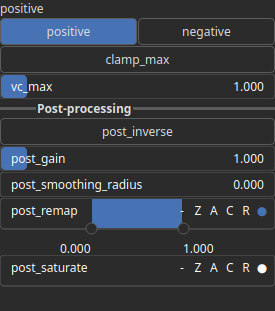
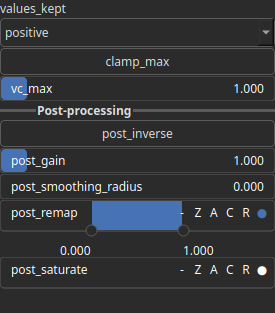
Add positive/negative/both options for CurvatureMean

diff --git a/Hesiod/src/model/nodes/nodes_function/curvature_mean.cpp b/Hesiod/src/model/nodes/nodes_function/curvature_mean.cpp
@@ -25,12 +25,14 @@ void setup_curvature_mean_node(BaseNode *p_node)
   p_node->add_port<hmap::Heightmap>(gnode::PortType::OUT, "output", CONFIG);
 
   // attribute(s)
-  ADD_ATTR(BoolAttribute, "positive", "positive", "negative", true);
+  std::vector<std::string> choices = {"positive", "negative", "both"};
+  ADD_ATTR(ChoiceAttribute, "values_kept", choices);
+
   ADD_ATTR(BoolAttribute, "clamp_max", false);
-  ADD_ATTR(FloatAttribute, "vc_max", 1.f, 0.f, 10.f);
+  ADD_ATTR(FloatAttribute, "vc_max", 1.f, 0.f, FLT_MAX, "{:.4f}");
 
   // attribute(s) order
-  p_node->set_attr_ordered_key({"positive", "clamp_max", "vc_max"});
+  p_node->set_attr_ordered_key({"values_kept", "clamp_max", "vc_max"});
 
   setup_post_process_heightmap_attributes(p_node);
 }
@@ -56,17 +58,29 @@ void compute_curvature_mean_node(BaseNode *p_node)
           hmap::Array *pa_out = p_arrays[0];
           hmap::Array *pa_in = p_arrays[1];
 
-          *pa_out = hmap::curvature_mean(*pa_in);
-          *pa_out *= nx;
+          // compute mean curvature and scale it
+          *pa_out = hmap::curvature_mean(*pa_in) * nx;
 
-          // positive or negative curvature
-          if (!GET("positive", BoolAttribute))
-            *pa_out *= -1.f;
-          hmap::clamp_min(*pa_out, 0.f);
+          // determine curvature sign handling
+          const std::string choice = GET("values_kept", ChoiceAttribute);
+          const bool        keep_both = (choice == "both");
 
-          // truncate high values if requested
-          if (GET("clamp_max", BoolAttribute))
-            hmap::clamp_max(*pa_out, GET("vc_max", FloatAttribute));
+          // if only one curvature sign is kept
+          if (!keep_both)
+          {
+            if (choice == "negative")
+              *pa_out *= -1.f;
+
+            hmap::clamp_min(*pa_out, 0.f);
+          }
+
+          // clamp output range
+          const float vc_max = GET("vc_max", FloatAttribute);
+	  
+          if (GET("clamp_max", BoolAttribute) && !keep_both)
+            hmap::clamp_max(*pa_out, vc_max);
+          else
+            hmap::clamp(*pa_out, -vc_max, vc_max);
         },
         p_node->get_config_ref()->hmap_transform_mode_cpu);
 

diff --git a/docs/node_reference/nodes/CurvatureMean.md b/docs/node_reference/nodes/CurvatureMean.md
@@ -31,12 +31,12 @@ Features
 |Name|Type|Description|
 | :--- | :--- | :--- |
 |clamp_max|Bool|No description|
-|positive|Bool|No description|
 |post_gain|Float|No description|
 |post_inverse|Bool|No description|
 |post_remap|Value range|No description|
 |post_saturate|Value range|No description|
 |post_smoothing_radius|Float|No description|
+|values_kept|Choice|No description|
 |vc_max|Float|No description|
 
 # Example
